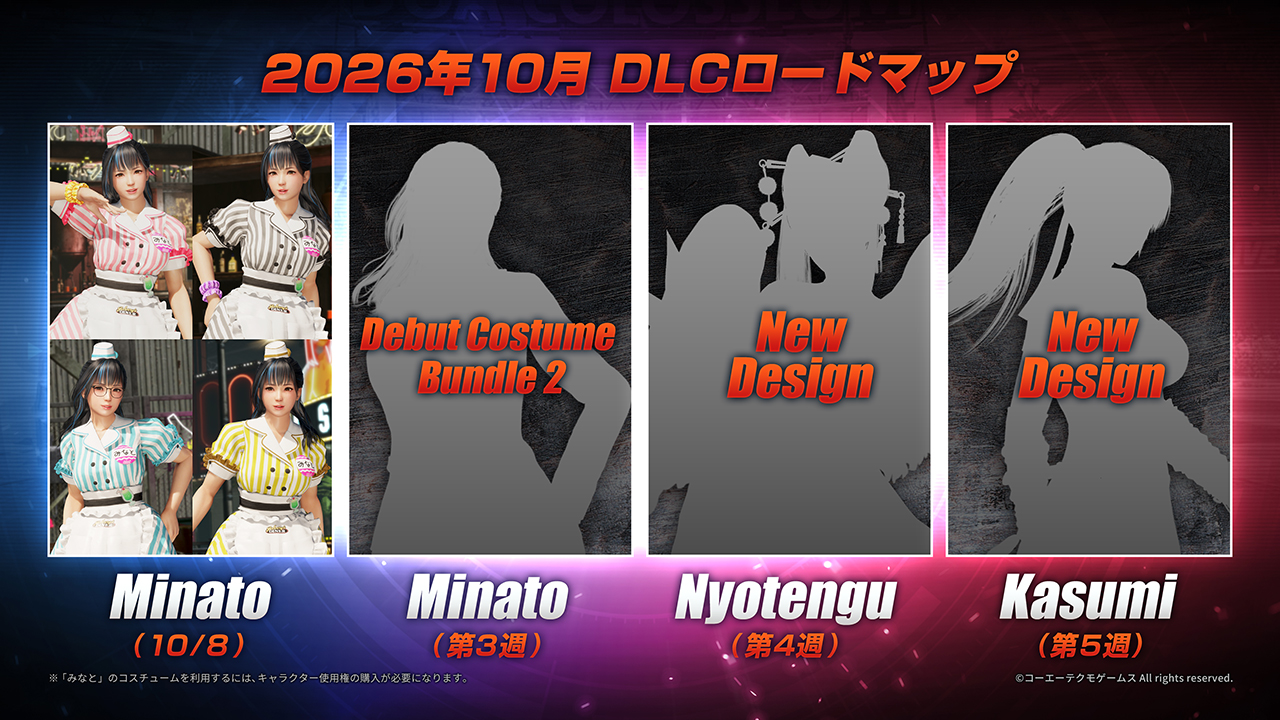
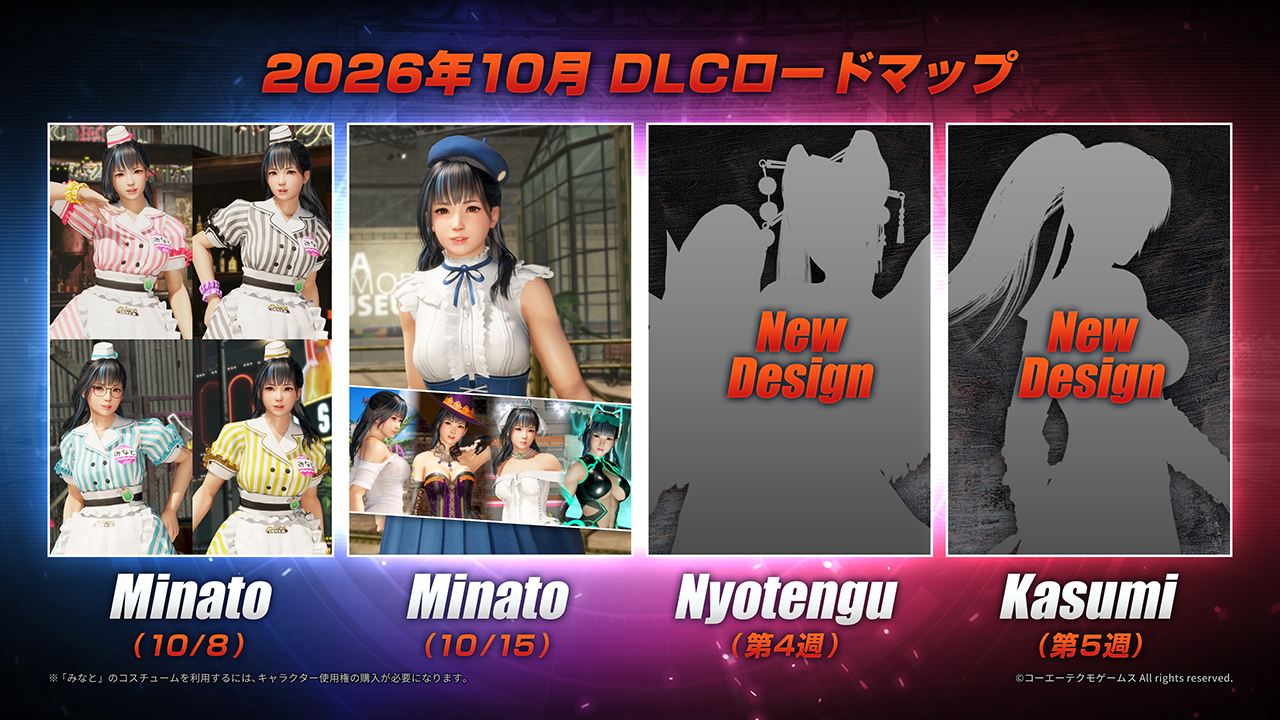
みなとさんのデビューコスチュームセット2を新DLCとして追加。

diff --git a/useful/doa6lr-dlc-list.html b/useful/doa6lr-dlc-list.html
@@ -22,7 +22,7 @@
     <meta property="og:description" content="DEAD OR ALIVE 6 Last Round の400種類を超えるDLCを検索し一覧表示する非公式ページです。">
     <meta property="og:type" content="website">
     <meta property="og:url" content="https://kiyopon46.github.io/articles/useful/doa6lr-dlc-list.html">
-    <meta property="og:image" content="https://kiyopon46.github.io/articles/useful/images/doa6lr-dlc-ogp.jpg?t=20261008213800">
+    <meta property="og:image" content="https://kiyopon46.github.io/articles/useful/images/doa6lr-dlc-ogp.jpg?t=20261015213800">
     <meta property="og:image:width" content="1280">
     <meta property="og:image:height" content="720">
     <meta property="og:image:alt" content="DEAD OR ALIVE 6 Last Round DLC List">
@@ -30,7 +30,7 @@
     <meta name="twitter:card" content="summary_large_image">
     <meta name="twitter:title" content="DEAD OR ALIVE 6 Last Round - DLC List (Unofficial)">
     <meta name="twitter:description" content="DEAD OR ALIVE 6 Last Round の400種類を超えるDLCを検索し一覧表示する非公式ページです。">
-    <meta name="twitter:image" content="https://kiyopon46.github.io/articles/useful/images/doa6lr-dlc-ogp.jpg?t=20261008213800">
+    <meta name="twitter:image" content="https://kiyopon46.github.io/articles/useful/images/doa6lr-dlc-ogp.jpg?t=20261015213800">
 
     <link rel="canonical" href="https://kiyopon46.github.io/articles/useful/doa6lr-dlc-list.html">
     <!-- DataTables CSS via CDN -->
@@ -8169,9 +8169,24 @@
         </td>
         <td class="text-center purchased-cell"><input type="checkbox" class="purchased-check" aria-label="購入済み"></td>
     </tr>
+    <tr data-dlc-id="5257070">
+        <td data-search="DOA6LR 「みなと」デビューコスチュームセット2" class="text-center">
+            <div class="dlc-name">DOA6LR 「みなと」デビューコスチュームセット2</div>
+            <a href="https://store.steampowered.com/app/5257070/DOA6LR_2/" target="_blank" rel="noopener noreferrer">
+                <img src="https://shared.fastly.steamstatic.com/store_item_assets/steam/apps/5257070/9db5734d434aa1953dd9d6b620573182a8f800cf/header_292x136.jpg" alt="DOA6LR 「みなと」デビューコスチュームセット2" class="dlc-banner" loading="lazy">
+            </a><br><span class="rel-date">2026年10月15日 リリース</span>
+        </td>
+        <td data-order="1320" class="text-center price-cell">
+            ¥ 1,320
+        </td>
+        <td><span class="search-only">新DLC</span>
+            「みなと」用のデビューコスチューム5着セットです。
+        </td>
+        <td class="text-center purchased-cell"><input type="checkbox" class="purchased-check" aria-label="購入済み"></td>
+    </tr>
         </tbody>
     </table>
-    <div class="last-updated">Last Updated: 2026年10月8日</div>
+    <div class="last-updated">Last Updated: 2026年10月15日</div>
 </div>
 
 <!-- jQuery & DataTables JS via CDN -->
